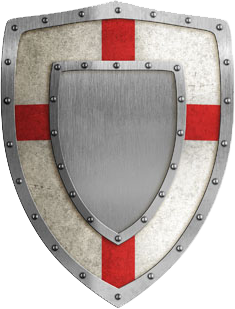
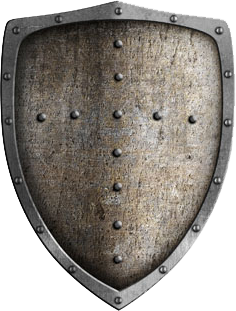
优化了盾牌加强的不同效果

diff --git a/pat_pat/view.py b/pat_pat/view.py
@@ -57,11 +57,13 @@ class GameView:
 
         self.__defend_pos = 0
         tar_defend_h = int(tar_role_h * (3 / 5))
-        self.__defend = [pygame.image.load(defend).convert_alpha() for defend in self.__defend_pics[0]]
-        for pic_id in range(len(self.__defend)):
-            pic_size = self.__defend[pic_id].get_size()
-            self.__defend[pic_id] = pygame.transform.smoothscale(
-                self.__defend[pic_id], (int(pic_size[0] / pic_size[1] * tar_defend_h), tar_defend_h))
+        self.__defends = [[pygame.image.load(defend).convert_alpha() for defend in self.__defend_pics[i]]
+                          for i in range(len(self.__defend_pics))]
+        for defend_pic in self.__defends:
+            for pic_id in range(len(defend_pic)):
+                pic_size = defend_pic[pic_id].get_size()
+                defend_pic[pic_id] = pygame.transform.smoothscale(
+                    defend_pic[pic_id], (int(pic_size[0] / pic_size[1] * tar_defend_h), tar_defend_h))
 
         self.__make_power_pos = 0
         self.__make_power = [pygame.image.load(mp).convert_alpha() for mp in self.__make_power_pics[0]]
@@ -101,11 +103,7 @@ class GameView:
             [pic_p + "defend/d2.png"],
             [pic_p + "defend/d3.png"],
             [pic_p + "defend/d4.png"],
-            [pic_p + "defend/d5.png"],
-            [pic_p + "defend/d6.png"],
-            [pic_p + "defend/d7.png"],
-            [pic_p + "defend/d8.png"],
-            [pic_p + "defend/d9.png"]]
+            [pic_p + "defend/d5.png"]]
         self.__make_power_pics = [
             [pic_p + "make_power/p1.png", pic_p + "make_power/p2.png"],
             [pic_p + "make_power/p3.png", pic_p + "make_power/p5.png", pic_p + "make_power/p4.png"]]
@@ -247,9 +245,11 @@ class GameView:
     def _draw_all_defends(self, roles_position: list):
         actions = self.__game.get_now_action()
         for player_id in range(len(actions)):
-            if actions[player_id] is not None:
-                if actions[player_id].action_type.value == ActionType.DEFEND.value:
-                    self._draw_defend(player_id, self.__defend, roles_position)
+            action = actions[player_id]
+            if action is not None:
+                if action.action_type.value == ActionType.DEFEND.value:
+                    self._draw_defend(player_id,
+                                      self.__defends[4 if action.power > 4 else action.power], roles_position)
         self.__defend_pos += 1
 
     @staticmethod
